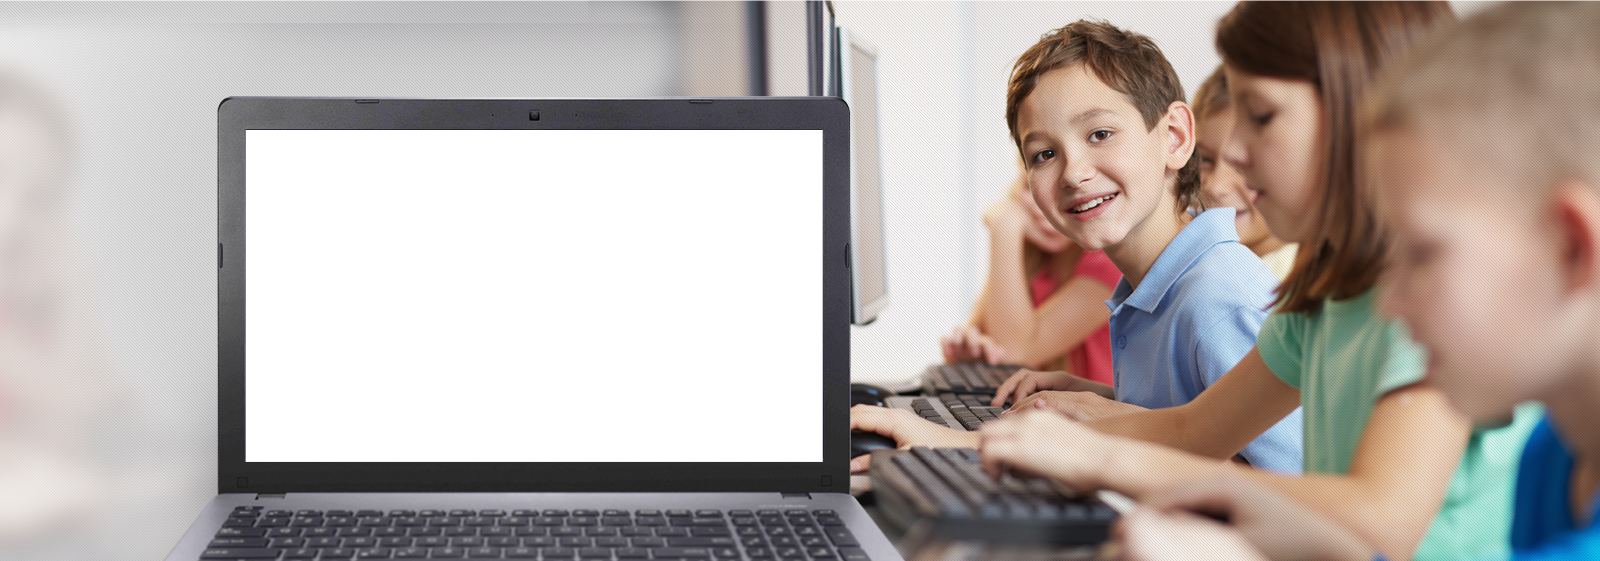
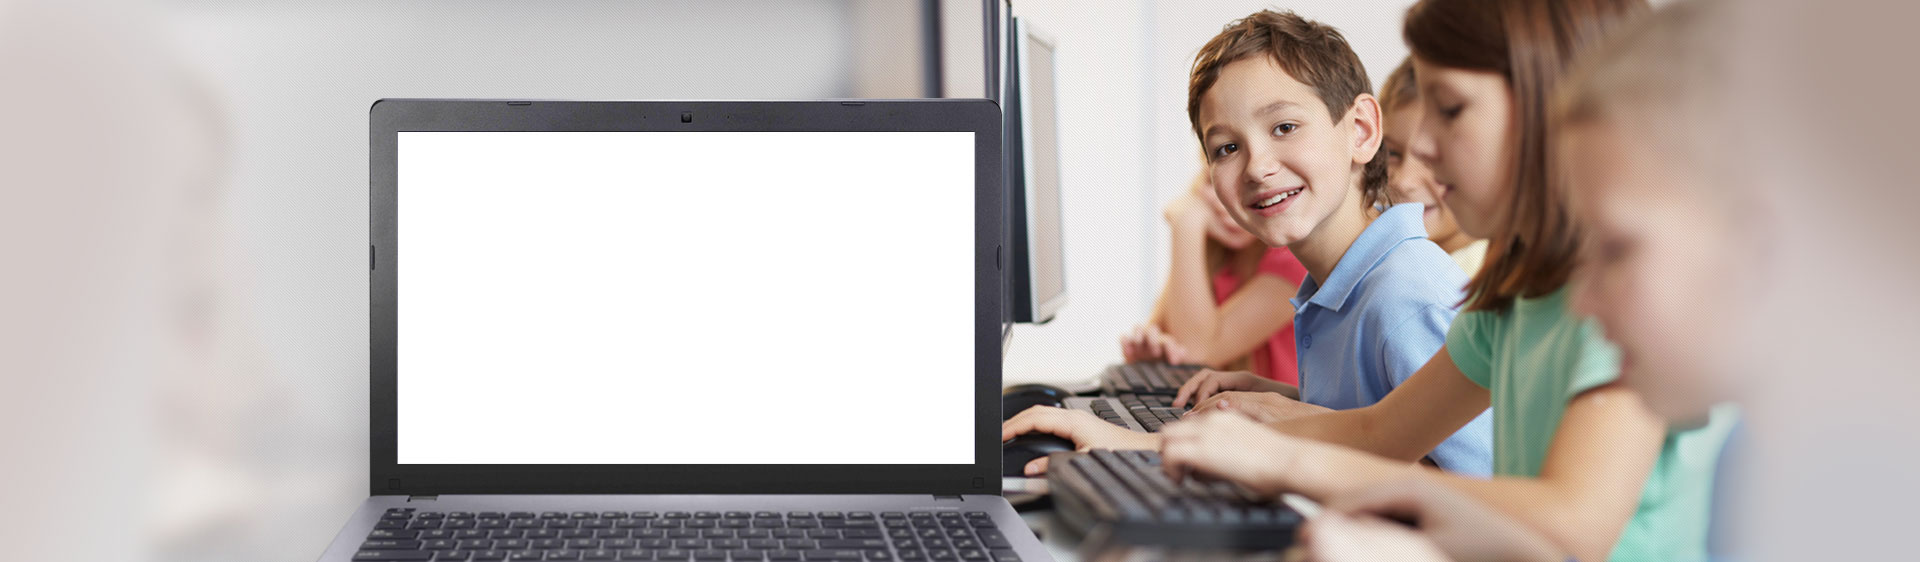
Slider background fix

diff --git a/src/assets/scss/_custom.scss b/src/assets/scss/_custom.scss
@@ -225,12 +225,12 @@ header {
 				height: auto;
 			}
 			.single-item-rtl {
-				@media (min-width: 2560px) {
-				    right: 48.7%;
+				@media (min-width: 1440px) {
+				    right: 49.2%;
 				}
-				top: 8.15rem !important;
-			    right: 48.2%;
-			    width: 580px;
+				top: 8.16rem !important;
+			    right: 48.9%;
+			    width: 575px;
 			    height: 330px;
 			    position: absolute;
 				.slick-list {
@@ -250,12 +250,12 @@ header {
 				}
 			}
 			.single-item-rtl2 {
-				@media (min-width: 2560px) {
-				    right: 48.7%;
+				@media (min-width: 1440px) {
+				    right: 49.2%;
 				}
-				top: 8.15rem !important;
-			    right: 48.2%;
-			    width: 580px;
+				top: 8.16rem !important;
+			    right: 48.9%;
+			    width: 575px;
 			    height: 330px;
 			    position: absolute;
 				.slick-list {
@@ -275,12 +275,12 @@ header {
 				}
 			}
 			.single-item-rtl3 {
-				@media (min-width: 2560px) {
-				    right: 48.7%;
+				@media (min-width: 1440px) {
+				    right: 49.2%;
 				}
-				top: 8.15rem !important;
-			    right: 48.2%;
-			    width: 580px;
+				top: 8.16rem !important;
+			    right: 48.9%;
+			    width: 575px;
 			    height: 330px;
 			    position: absolute;
 				.slick-list {
